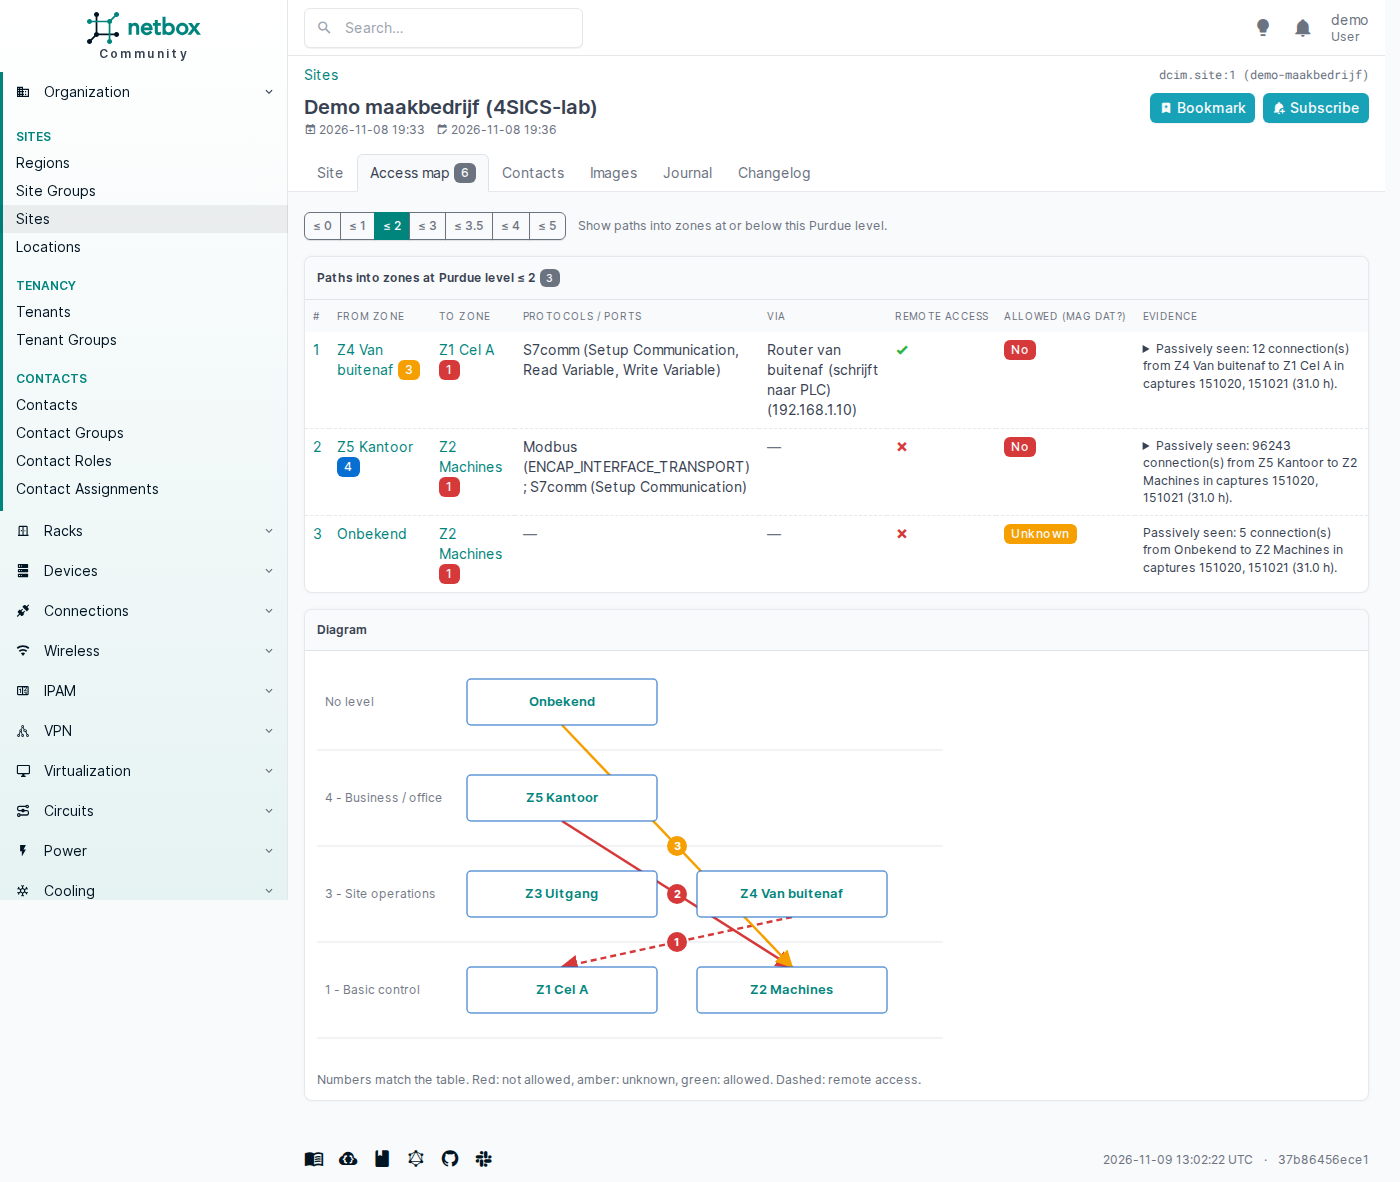
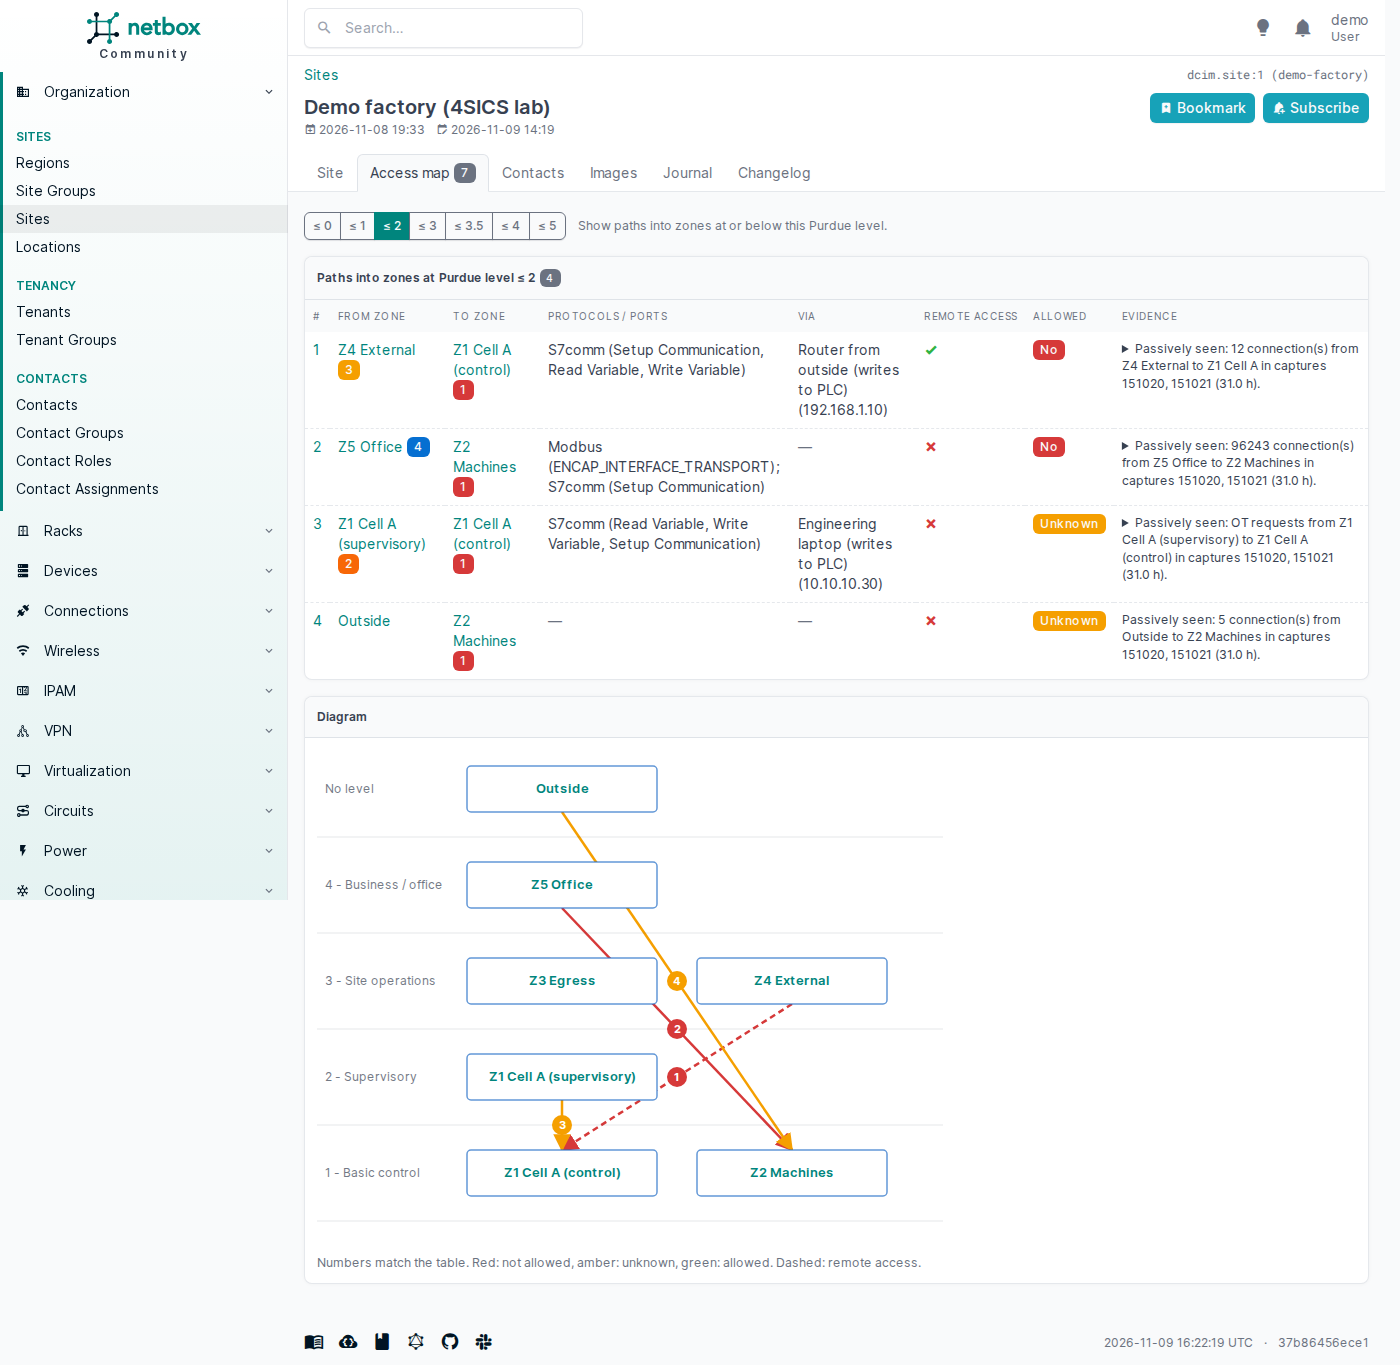
README: setup commands for source installs and netbox-docker; English screenshots

diff --git a/README.md b/README.md
@@ -11,11 +11,13 @@ remote access over 4G routers, TeamViewer or VPN), and decide per path whether t
 also records industrial services (Modbus, S7comm, PROFINET, EtherNet/IP, OPC UA, DNP3, ...) and serial
 fieldbuses.
 
-Status: early development (0.1.0.dev0), tested on NetBox 4.7.4 only.
+Status: early development (0.1.0.dev0), tested on NetBox 4.7.2 and 4.7.4.
 
 ![Access map tab on a site](docs/access-map.png)
 
 ![A zone with its conduits, devices and prefixes](docs/zone.png)
+
+![Industrial services: protocol, role, ports or fieldbus per device](docs/industrial-services.png)
 
 ## What you get
 
@@ -34,13 +36,19 @@ Status: early development (0.1.0.dev0), tested on NetBox 4.7.4 only.
   (`iec62443_zone_list`, `iec62443_conduit_list`).
 - An **importer** for passive-capture analysis output (see below).
 
-## Install
+## Setup
 
-```
-pip install netbox-iec62443          # not on PyPI yet: pip install /path/to/netbox-iec62443
+Requires NetBox 4.7.x.
+
+**NetBox installed from source** (`/opt/netbox`):
+
+```bash
+cd /opt/netbox
+echo "netbox-iec62443 @ git+https://github.com/Packetflow-be/netbox-iec62443.git" | sudo tee -a local_requirements.txt
+sudo venv/bin/pip install "netbox-iec62443 @ git+https://github.com/Packetflow-be/netbox-iec62443.git"
 ```
 
-`configuration.py`:
+Add to `/opt/netbox/netbox/netbox/configuration.py`:
 
 ```python
 PLUGINS = ["netbox_iec62443"]
@@ -52,11 +60,42 @@ PLUGINS_CONFIG = {
 }
 ```
 
-Then `manage.py migrate`. With [netbox-docker](https://github.com/netbox-community/netbox-docker),
-add the package to `plugin_requirements.txt` and build a custom image as described in its wiki; for
-development you can mount the source and set `PYTHONPATH` instead (see `docs/development.md`).
+```bash
+sudo venv/bin/python netbox/manage.py migrate
+sudo venv/bin/python netbox/manage.py collectstatic --no-input
+sudo systemctl restart netbox netbox-rq
+```
+
+**[netbox-docker](https://github.com/netbox-community/netbox-docker)** (custom image, see its wiki on plugins):
+
+```bash
+echo "netbox-iec62443 @ git+https://github.com/Packetflow-be/netbox-iec62443.git" >> plugin_requirements.txt
+cat >> configuration/plugins.py <<'PY'
+PLUGINS = ["netbox_iec62443"]
+PLUGINS_CONFIG = {"netbox_iec62443": {}}
+PY
+docker compose build --no-cache
+docker compose up -d
+```
+
+**Check:**
+
+```bash
+curl -s -H "Authorization: Token $TOKEN" https://netbox.example.com/api/status/ | grep netbox_iec62443
+```
+
+**Import observations** (format in [docs/import-format.md](docs/import-format.md)):
+
+```bash
+sudo /opt/netbox/venv/bin/python /opt/netbox/netbox/manage.py iec62443_import ./observations --site <site-slug> --dry-run
+sudo /opt/netbox/venv/bin/python /opt/netbox/netbox/manage.py iec62443_import ./observations --site <site-slug>
+```
+
+**Remove:** take `netbox_iec62443` out of `PLUGINS`, restart, then
+`pip uninstall netbox-iec62443`. The plugin's tables stay until you drop them.
 
 Permissions: users who view conduits also need view permission on zones (a conduit shows its zones).
+For development against netbox-docker, see [docs/development.md](docs/development.md).
 
 ## Access map API
 
